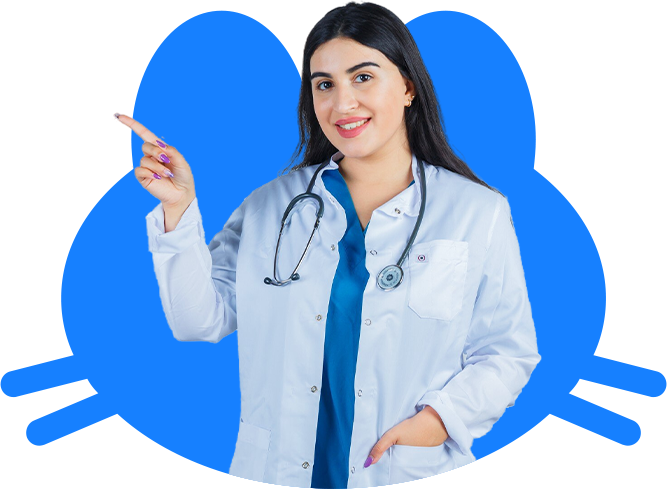
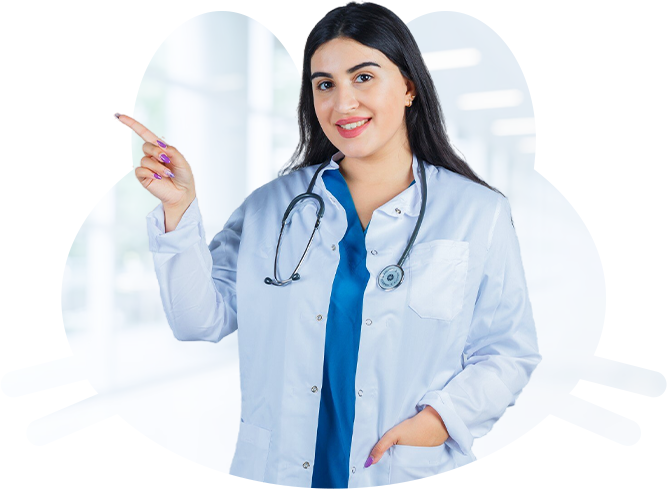
edited

diff --git a/index.html b/index.html
@@ -24,7 +24,7 @@
             </a>
             
             <div class="flex items-center lg:order-2">
-                <a href="#" class="text-white bg-primary-600 hover:bg-primary-700 focus:ring-4 focus:ring-primary-300 font-medium rounded-lg text-sm px-4 lg:px-5 py-2 lg:py-2.5 focus:outline-none">Login</a>
+                <a href="#" class="text-white bg-primary-600 hover:bg-primary-700 focus:ring-4 focus:ring-primary-300 font-medium rounded-lg text-sm px-4 lg:px-5 py-2 lg:py-2.5 focus:outline-none">Entrar</a>
 
                 <button data-collapse-toggle="mobile-menu-2" type="button" class="inline-flex items-center p-2 ml-1 text-sm text-gray-500 rounded-lg lg:hidden hover:bg-gray-100 focus:outline-none focus:ring-2 focus:ring-gray-200 dark:text-gray-400 dark:hover:bg-gray-700 dark:focus:ring-gray-600" aria-controls="mobile-menu-2" aria-expanded="false">
                     <span class="sr-only">Open main menu</span>
@@ -36,7 +36,7 @@
             <div class="hidden justify-between items-center w-full lg:flex lg:w-auto lg:order-1" id="mobile-menu-2">
                 <ul class="flex flex-col mt-4 font-medium lg:flex-row lg:space-x-8 lg:mt-0">
                     <li>
-                        <a href="#" class="block py-2 pr-4 pl-3 text-gray-700 border-b border-gray-100 hover:bg-gray-50 lg:hover:bg-transparent lg:border-0 lg:hover:text-primary-600 lg:p-0">Buscar Médico</a>
+                        <a href="#" class="block py-2 pr-4 pl-3 text-gray-700 border-b border-gray-100 hover:bg-gray-50 lg:hover:bg-transparent lg:border-0 lg:hover:text-primary-600 lg:p-0">Médico</a>
                     </li>
                     <li>
                         <a href="#" class="block py-2 pr-4 pl-3 text-gray-700 border-b border-gray-100 hover:bg-gray-50 lg:hover:bg-transparent lg:border-0 lg:hover:text-primary-600 lg:p-0">Farmácia</a>
@@ -58,34 +58,58 @@
 </header>
 
 <!-- Section Hero  -->
-<main class="bg-primary-50 overflow-x-hidden p-5 lg:py-20 py-16">
-<div class="max-w-screen-lg mx-auto flex justify-between max-lg:items-center max-lg:content-center max-lg:text-center max-lg:flex-col max-md:gap-16">
+<main class="bg-primary-600 overflow-x-hidden p-5 lg:py-20 py-16">
+<div class="max-w-screen-lg mx-auto flex justify-between lg:items-center max-lg:items-center max-lg:content-center max-lg:text-center max-lg:flex-col max-md:gap-16">
 
 <div>
-<h1 class="text-4xl max-w-[480px] leading-none font-semibold font-sans">Milhares de <span class="text-primary-600 font-bold">especialistas</span> de saúde estão prontos para te ajudar</h1>
-<p class="text-lg opacity-70 mt-5">Consulta privada disponível por chamada de áudio e vídeo</p>
+<h1 class="text-4xl max-w-[480px] text-white leading-none font-semibold font-sans">Milhares de especialistas de saúde estão prontos para te ajudar</h1>
+<p class="text-md mt-5 text-white">Consulta privada disponível por chamada de áudio e vídeo</p>
 
 
-<form class="max-w-sm max-lg:max-w-lg mt-8 content-center">   
-    <label for="default-search" class="mb-2 text-sm font-medium text-gray-900 sr-only dark:text-white">Search</label>
-    <div class="relative">
-        <div class="absolute inset-y-0 start-0 flex items-center ps-6 pointer-events-none">
-        <img src="./img/icon-lupa.svg" class="h-5">
+<form class="max-w-lg mx-auto mt-10">
+    <div class="flex">
+        <label for="search-dropdown" class="mb-2 text-sm font-medium text-gray-900 sr-only">Your Email</label>
+        <button id="dropdown-button" data-dropdown-toggle="dropdown" class="flex-shrink-0 z-10 inline-flex items-center py-2.5 px-4 text-sm font-medium text-center text-gray-900 bg-white rounded-s-lg hover:bg-gray-50" type="button">Médicos<svg class="w-2.5 h-2.5 ms-2.5" aria-hidden="true" xmlns="http://www.w3.org/2000/svg" fill="none" viewBox="0 0 10 6">
+    <path stroke="currentColor" stroke-linecap="round" stroke-linejoin="round" stroke-width="2" d="m1 1 4 4 4-4"/>
+  </svg></button>
+        <div id="dropdown" class="z-10 hidden bg-white divide-y divide-gray-100 rounded-lg shadow w-44">
+            <ul class="py-2 text-sm text-gray-700" aria-labelledby="dropdown-button">
+            <li>
+                <button type="button" class="inline-flex w-full px-4 py-2 hover:bg-gray-100">Farmacias</button>
+            </li>
+            <li>
+                <button type="button" class="inline-flex w-full px-4 py-2 hover:bg-gray-100">Laboratórios</button>
+            </li>
+            <li>
+                <button type="button" class="inline-flex w-full px-4 py-2 hover:bg-gray-100">Hospitais</button>
+            </li>
+            <li>
+                <button type="button" class="inline-flex w-full px-4 py-2 hover:bg-gray-100">Clínicas</button>
+            </li>
+            </ul>
         </div>
-        <input type="search" id="default-search" class="block w-full p-4 ps-16 text-md text-gray-900  rounded-full bg-white focus:ring-primary-600 focus:border-primary-600" placeholder="Procure especialidade ou serviço..." required />
+        <div class="relative w-full">
+            <input type="search" id="search-dropdown" class="block p-3 w-full z-20 text-sm text-gray-900 bg-white rounded-e-lg focus:ring-orange-500 focus:border-blue-500 dark:bg-gray-700" placeholder="Digite sua busca..." required />
+            <button type="submit" class="absolute top-0 end-0 p-3 text-sm font-medium h-full text-white bg-orange-500 rounded-e-lg hover:bg-orange-600 focus:ring-4 focus:outline-none focus:ring-blue-300">
+                <svg class="w-4 h-4" aria-hidden="true" xmlns="http://www.w3.org/2000/svg" fill="none" viewBox="0 0 20 20">
+                    <path stroke="currentColor" stroke-linecap="round" stroke-linejoin="round" stroke-width="2" d="m19 19-4-4m0-7A7 7 0 1 1 1 8a7 7 0 0 1 14 0Z"/>
+                </svg>
+                <span class="sr-only">Search</span>
+            </button>
+        </div>
     </div>
 </form>
 
-<div class="flex lg:gap-10 mt-5 max-lg:flex-col">
-<a href="#" class="text-center rounded-lg text-sm py-3 hover:text-primary-600 hover:underline opacity-70">Marcar Consulta →</a>
-<a href="#" class="text-center rounded-lg text-sm py-3 hover:text-primary-600 hover:underline opacity-70">Encontre Especialistas →</a>
-</div>
+<span class="text-sm text-white mt-6 max-lg:justify-center gap-2 flex items-center">
+<img src="./img/icon-map-white.svg">
+Salvador-BA
+</span>
 
 </div>
 
 <div class="relative">
-<img src="./img/img-hero.png" alt="Img Hero Catmedic" style="animation: float 6s ease-in-out infinite;" class="sm:mt-12 lg:mt-0 max-w-[440px]">
-<img src="./img/img-card-perfis.png" alt="Img Hero Catmedic" style="animation: float 5s ease-in-out infinite;" class="bottom-0 max-md:left-20 absolute">
+<img src="./img/img-hero-white.png" alt="Img Hero Catmedic" class="sm:mt-12 lg:mt-0 max-w-[440px]">
+<img src="./img/img-card-perfis.png" alt="Img Hero Catmedic" class="bottom-0 max-md:left-20 absolute">
 </div>
 
 </div>
@@ -152,7 +176,7 @@
     <div class="font-medium">
         <h5 class="text-sm font-semibold">Dra. Mariana Albuquerque</h5>
         <p class="text-xs text-gray-500">Pediatria | CRM 0028</p>
-        <div class="flex items-center gap-2 mt-1.5">
+        <div class="flex items-center gap-1 mt-1.5">
         <img class="h-3 rounded-lg" src="./img/icon-star-yellow.svg">
         <img class="h-3 rounded-lg" src="./img/icon-star-yellow.svg">
         <img class="h-3 rounded-lg" src="./img/icon-star-yellow.svg">
@@ -169,7 +193,7 @@
     <div class="font-medium">
         <h5 class="text-sm font-semibold">Dr. Rafael Souza</h5>
         <p class="text-xs text-gray-500">Obstetrícia | CRM 0029</p>
-        <div class="flex items-center gap-2 mt-1.5">
+        <div class="flex items-center gap-1 mt-1.5">
         <img class="h-3 rounded-lg" src="./img/icon-star-yellow.svg">
         <img class="h-3 rounded-lg" src="./img/icon-star-yellow.svg">
         <img class="h-3 rounded-lg" src="./img/icon-star-yellow.svg">
@@ -186,7 +210,7 @@
     <div class="font-medium">
         <h5 class="text-sm font-semibold">Dra. Fernanda Costa</h5>
         <p class="text-xs text-gray-500">Dermatologia | CRM 0030</p>
-        <div class="flex items-center gap-2 mt-1.5">
+        <div class="flex items-center gap-1 mt-1.5">
         <img class="h-3 rounded-lg" src="./img/icon-star-yellow.svg">
         <img class="h-3 rounded-lg" src="./img/icon-star-yellow.svg">
         <img class="h-3 rounded-lg" src="./img/icon-star-yellow.svg">
@@ -202,7 +226,7 @@
     <div class="font-medium">
         <h5 class="text-sm font-semibold">Dra. Beatriz Oliveira</h5>
         <p class="text-xs text-gray-500">Cardiologia | CRM 0031</p>
-        <div class="flex items-center gap-2 mt-1.5">
+        <div class="flex items-center gap-1 mt-1.5">
         <img class="h-3 rounded-lg" src="./img/icon-star-yellow.svg">
         <img class="h-3 rounded-lg" src="./img/icon-star-yellow.svg">
         <img class="h-3 rounded-lg" src="./img/icon-star-yellow.svg">
@@ -219,7 +243,7 @@
     <div class="font-medium">
         <h5 class="text-sm font-semibold">Dra. Luísa Pereira</h5>
         <p class="text-xs text-gray-500">Endocrinologia | CRM 0032</p>
-        <div class="flex items-center gap-2 mt-1.5">
+        <div class="flex items-center gap-1 mt-1.5">
         <img class="h-3 rounded-lg" src="./img/icon-star-yellow.svg">
         <img class="h-3 rounded-lg" src="./img/icon-star-yellow.svg">
         <img class="h-3 rounded-lg" src="./img/icon-star-yellow.svg">
@@ -236,7 +260,7 @@
     <div class="font-medium">
         <h5 class="text-sm font-semibold">Dra. Raquel Souza</h5>
         <p class="text-xs text-gray-500">Clínica Geral | CRM 0033</p>
-        <div class="flex items-center gap-2 mt-1.5">
+        <div class="flex items-center gap-1 mt-1.5">
         <img class="h-3 rounded-lg" src="./img/icon-star-yellow.svg">
         <img class="h-3 rounded-lg" src="./img/icon-star-yellow.svg">
         <img class="h-3 rounded-lg" src="./img/icon-star-yellow.svg">
@@ -253,7 +277,7 @@
     <div class="font-medium">
         <h5 class="text-sm font-semibold">Dra. Paula Nunes</h5>
         <p class="text-xs text-gray-500">Pediatria | CRM 0034</p>
-        <div class="flex items-center gap-2 mt-1.5">
+        <div class="flex items-center gap-1 mt-1.5">
         <img class="h-3 rounded-lg" src="./img/icon-star-yellow.svg">
         <img class="h-3 rounded-lg" src="./img/icon-star-yellow.svg">
         <img class="h-3 rounded-lg" src="./img/icon-star-yellow.svg">
@@ -270,7 +294,7 @@
     <div class="font-medium">
         <h5 class="text-sm font-semibold">Dr. Daniel Lima</h5>
         <p class="text-xs text-gray-500">Clínica Geral  | CRM 0035</p>
-        <div class="flex items-center gap-2 mt-1.5">
+        <div class="flex items-center gap-1 mt-1.5">
         <img class="h-3 rounded-lg" src="./img/icon-star-yellow.svg">
         <img class="h-3 rounded-lg" src="./img/icon-star-yellow.svg">
         <img class="h-3 rounded-lg" src="./img/icon-star-yellow.svg">
@@ -347,7 +371,7 @@
 <div>
 <h5 class="uppercase mb-5 font-semibold text-gray-500">Para Pacientes</h5>
 <ul class="flex flex-col gap-4 ">
-<li><a href="" class="hover:text-primary-600 text-white">Procurar médicos</a></li>
+<li><a href="" class="hover:text-primary-600 text-white">Médicos</a></li>
 <li><a href="" class="hover:text-primary-600 text-white">Farmácia</a></li>
 <li><a href="" class="hover:text-primary-600 text-white">Laboratórios</a></li>
 <li><a href="" class="hover:text-primary-600 text-white">Promoções</a></li>
